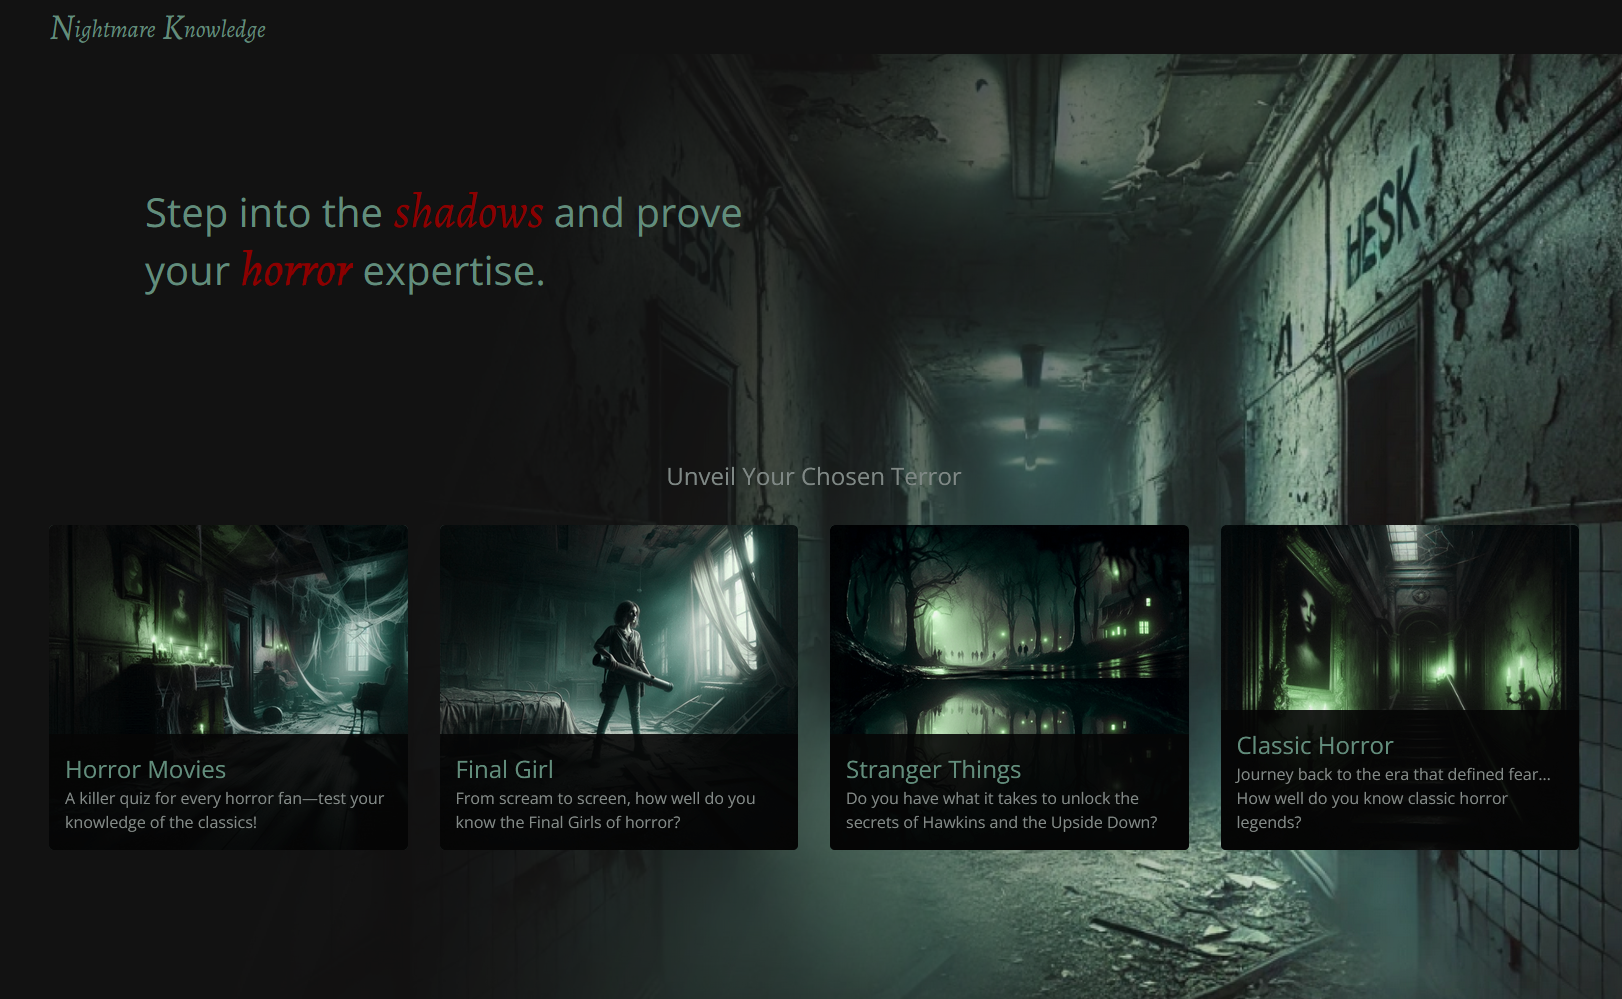
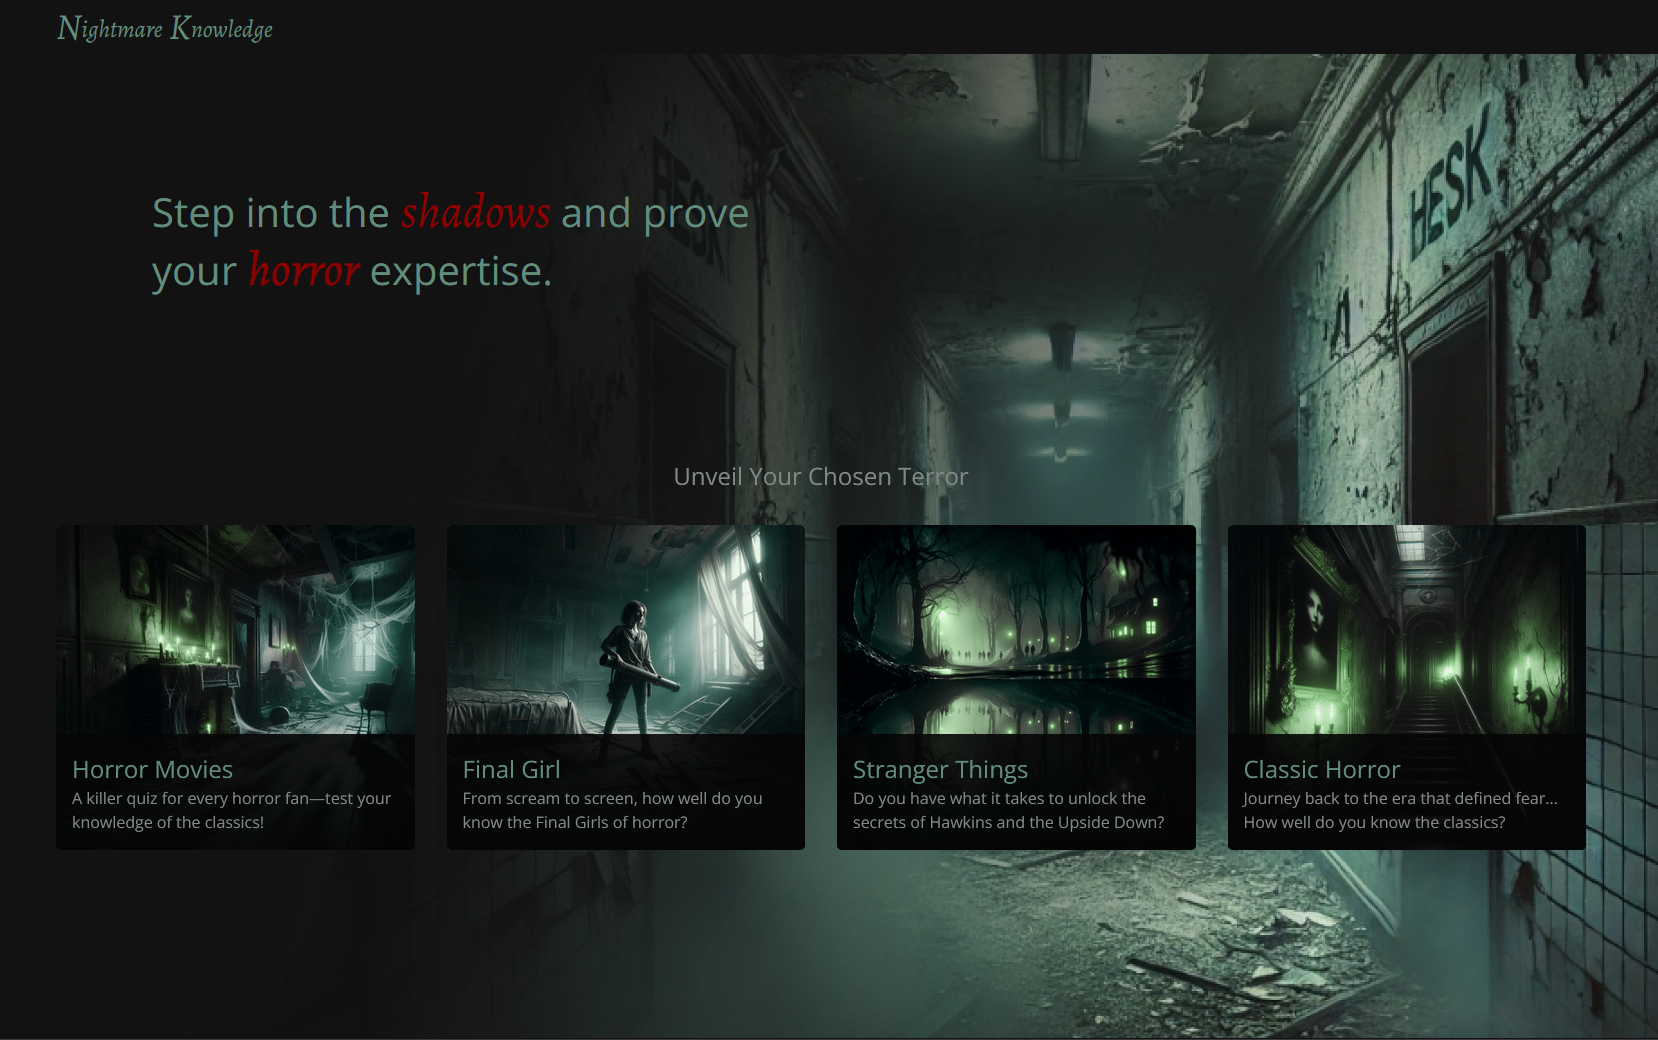
Added new opengraph image.

diff --git a/src/app/data/quizCardInfo/quizCardInfo.ts b/src/app/data/quizCardInfo/quizCardInfo.ts
@@ -26,7 +26,7 @@ export const QuizCardInfo: QuizCardInfoType[] = [
     },
     {
         title: "Classic Horror",
-        description: "Journey back to the era that defined fear… How well do you know classic horror legends?",
+        description: "Journey back to the era that defined fear… How well do you know the classics?",
         quizURL: "classic_horror",
         backgroundImage: "/images/staircase.png"
     },
